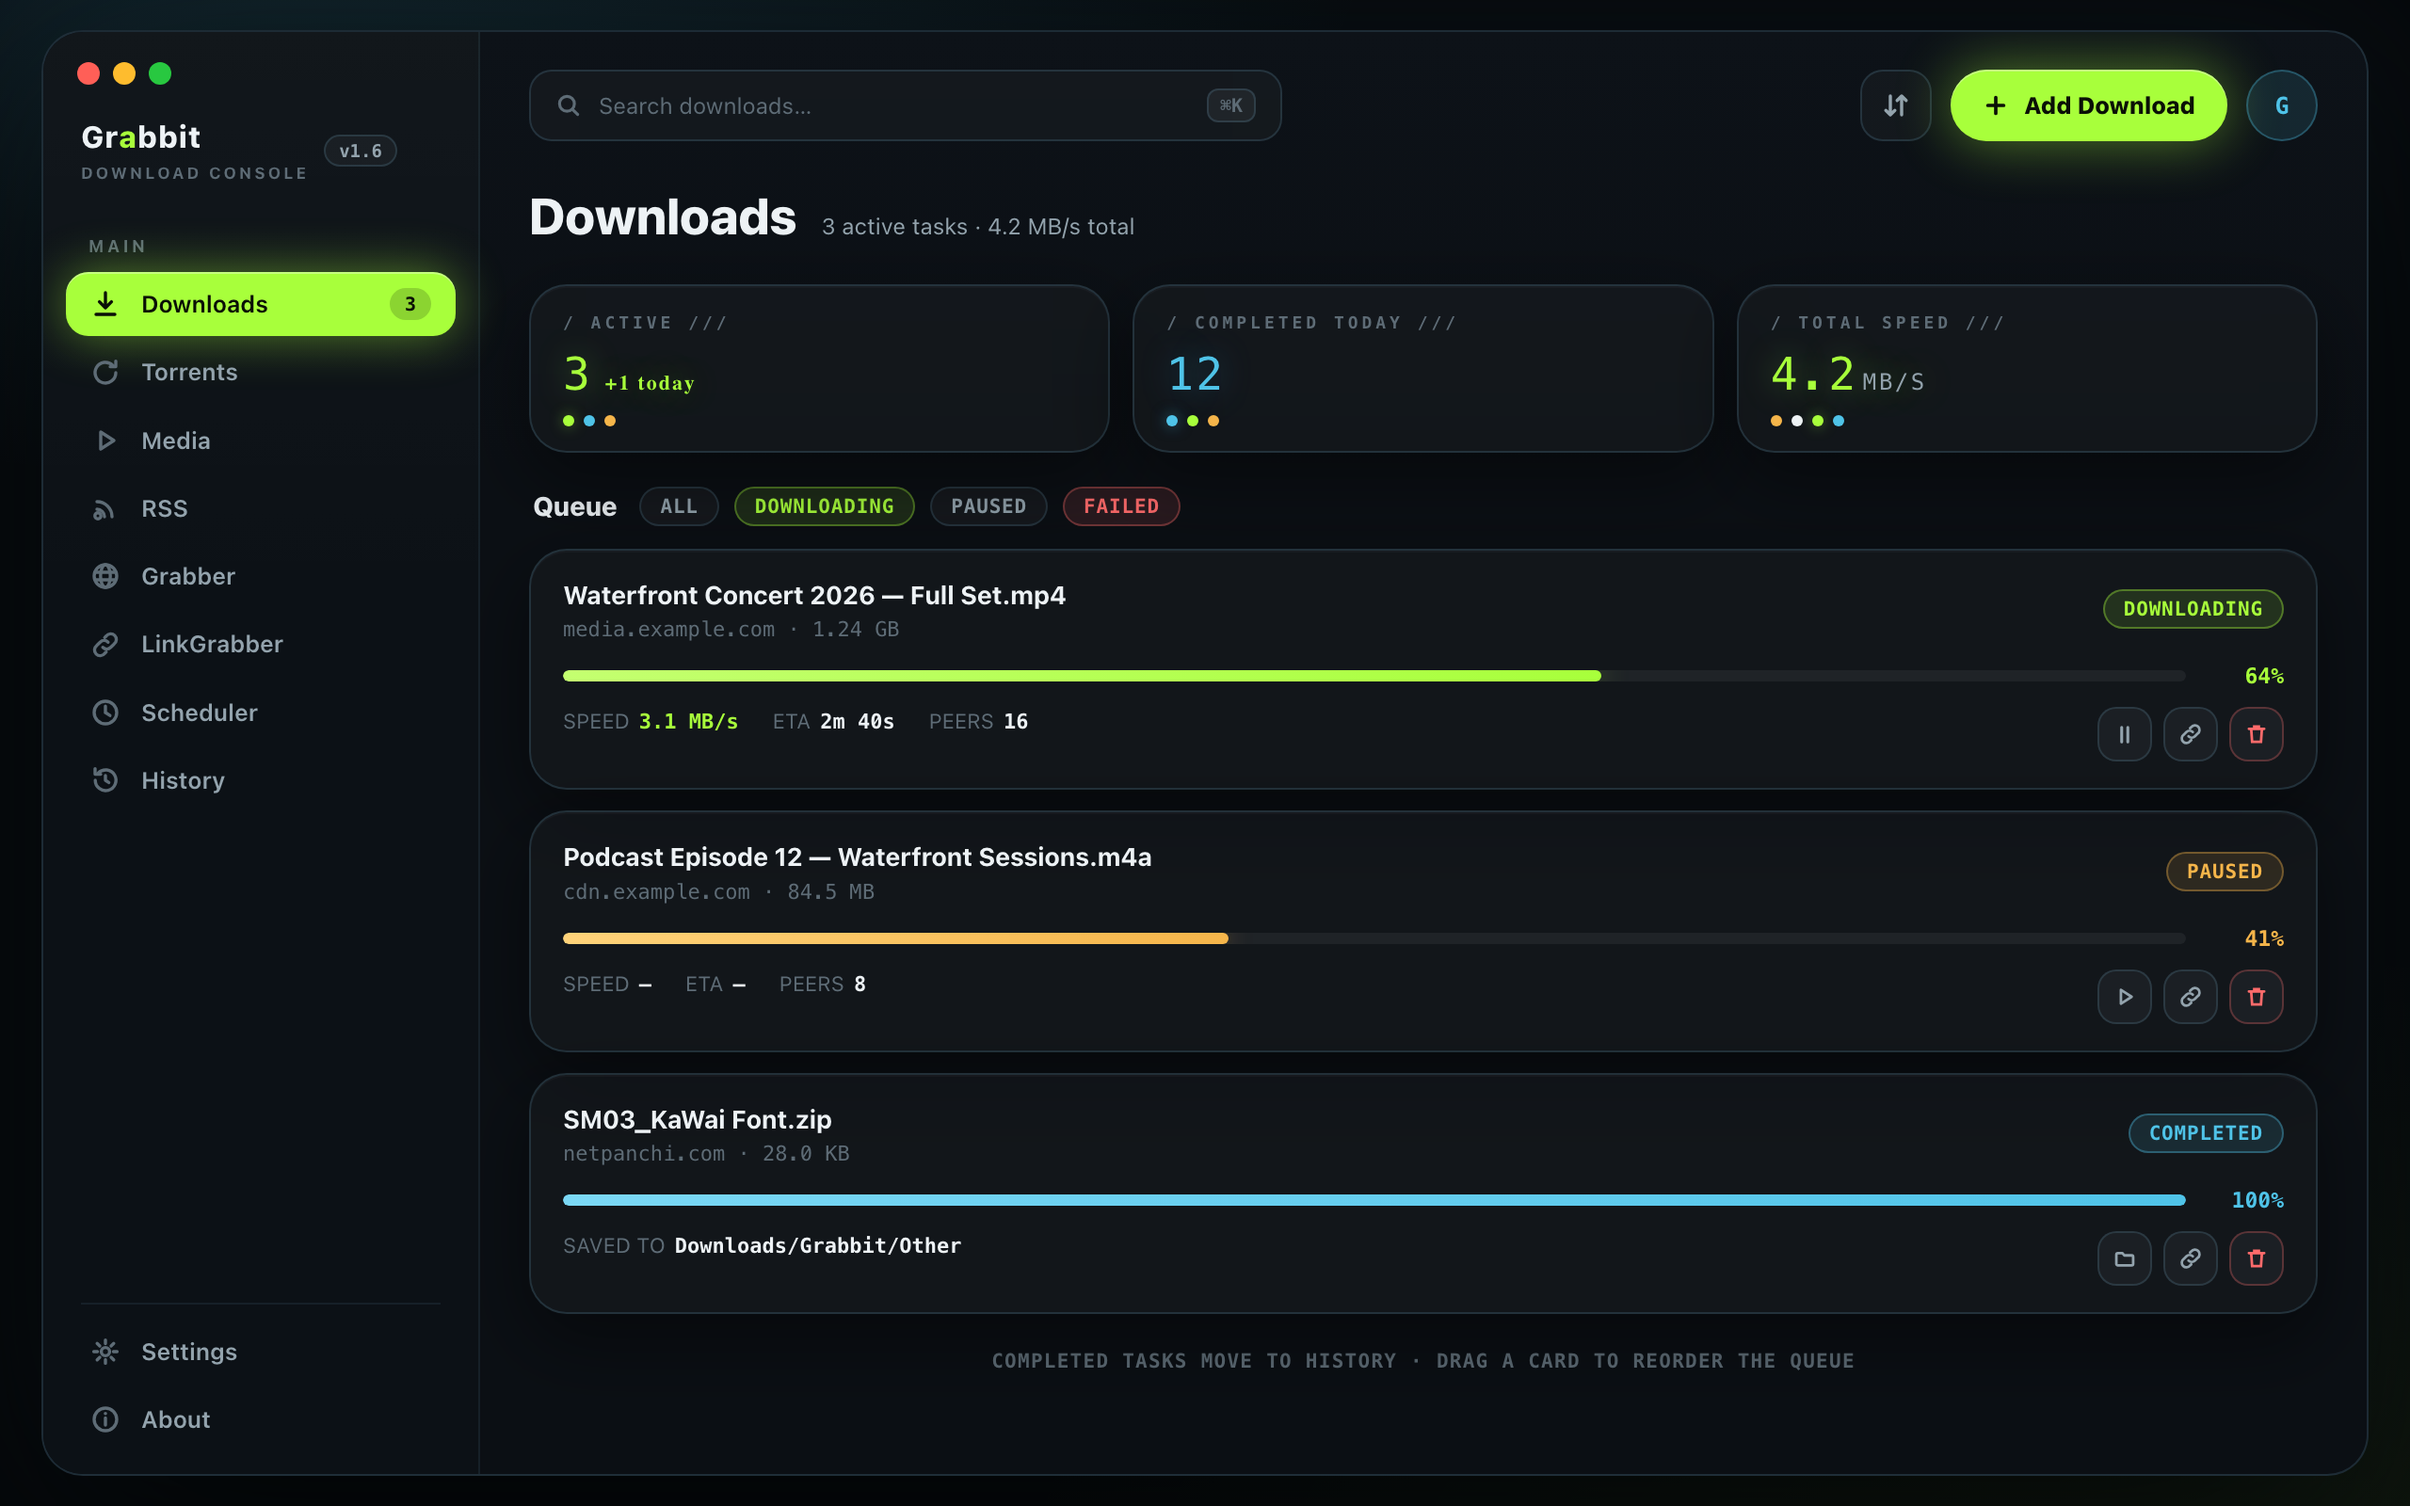
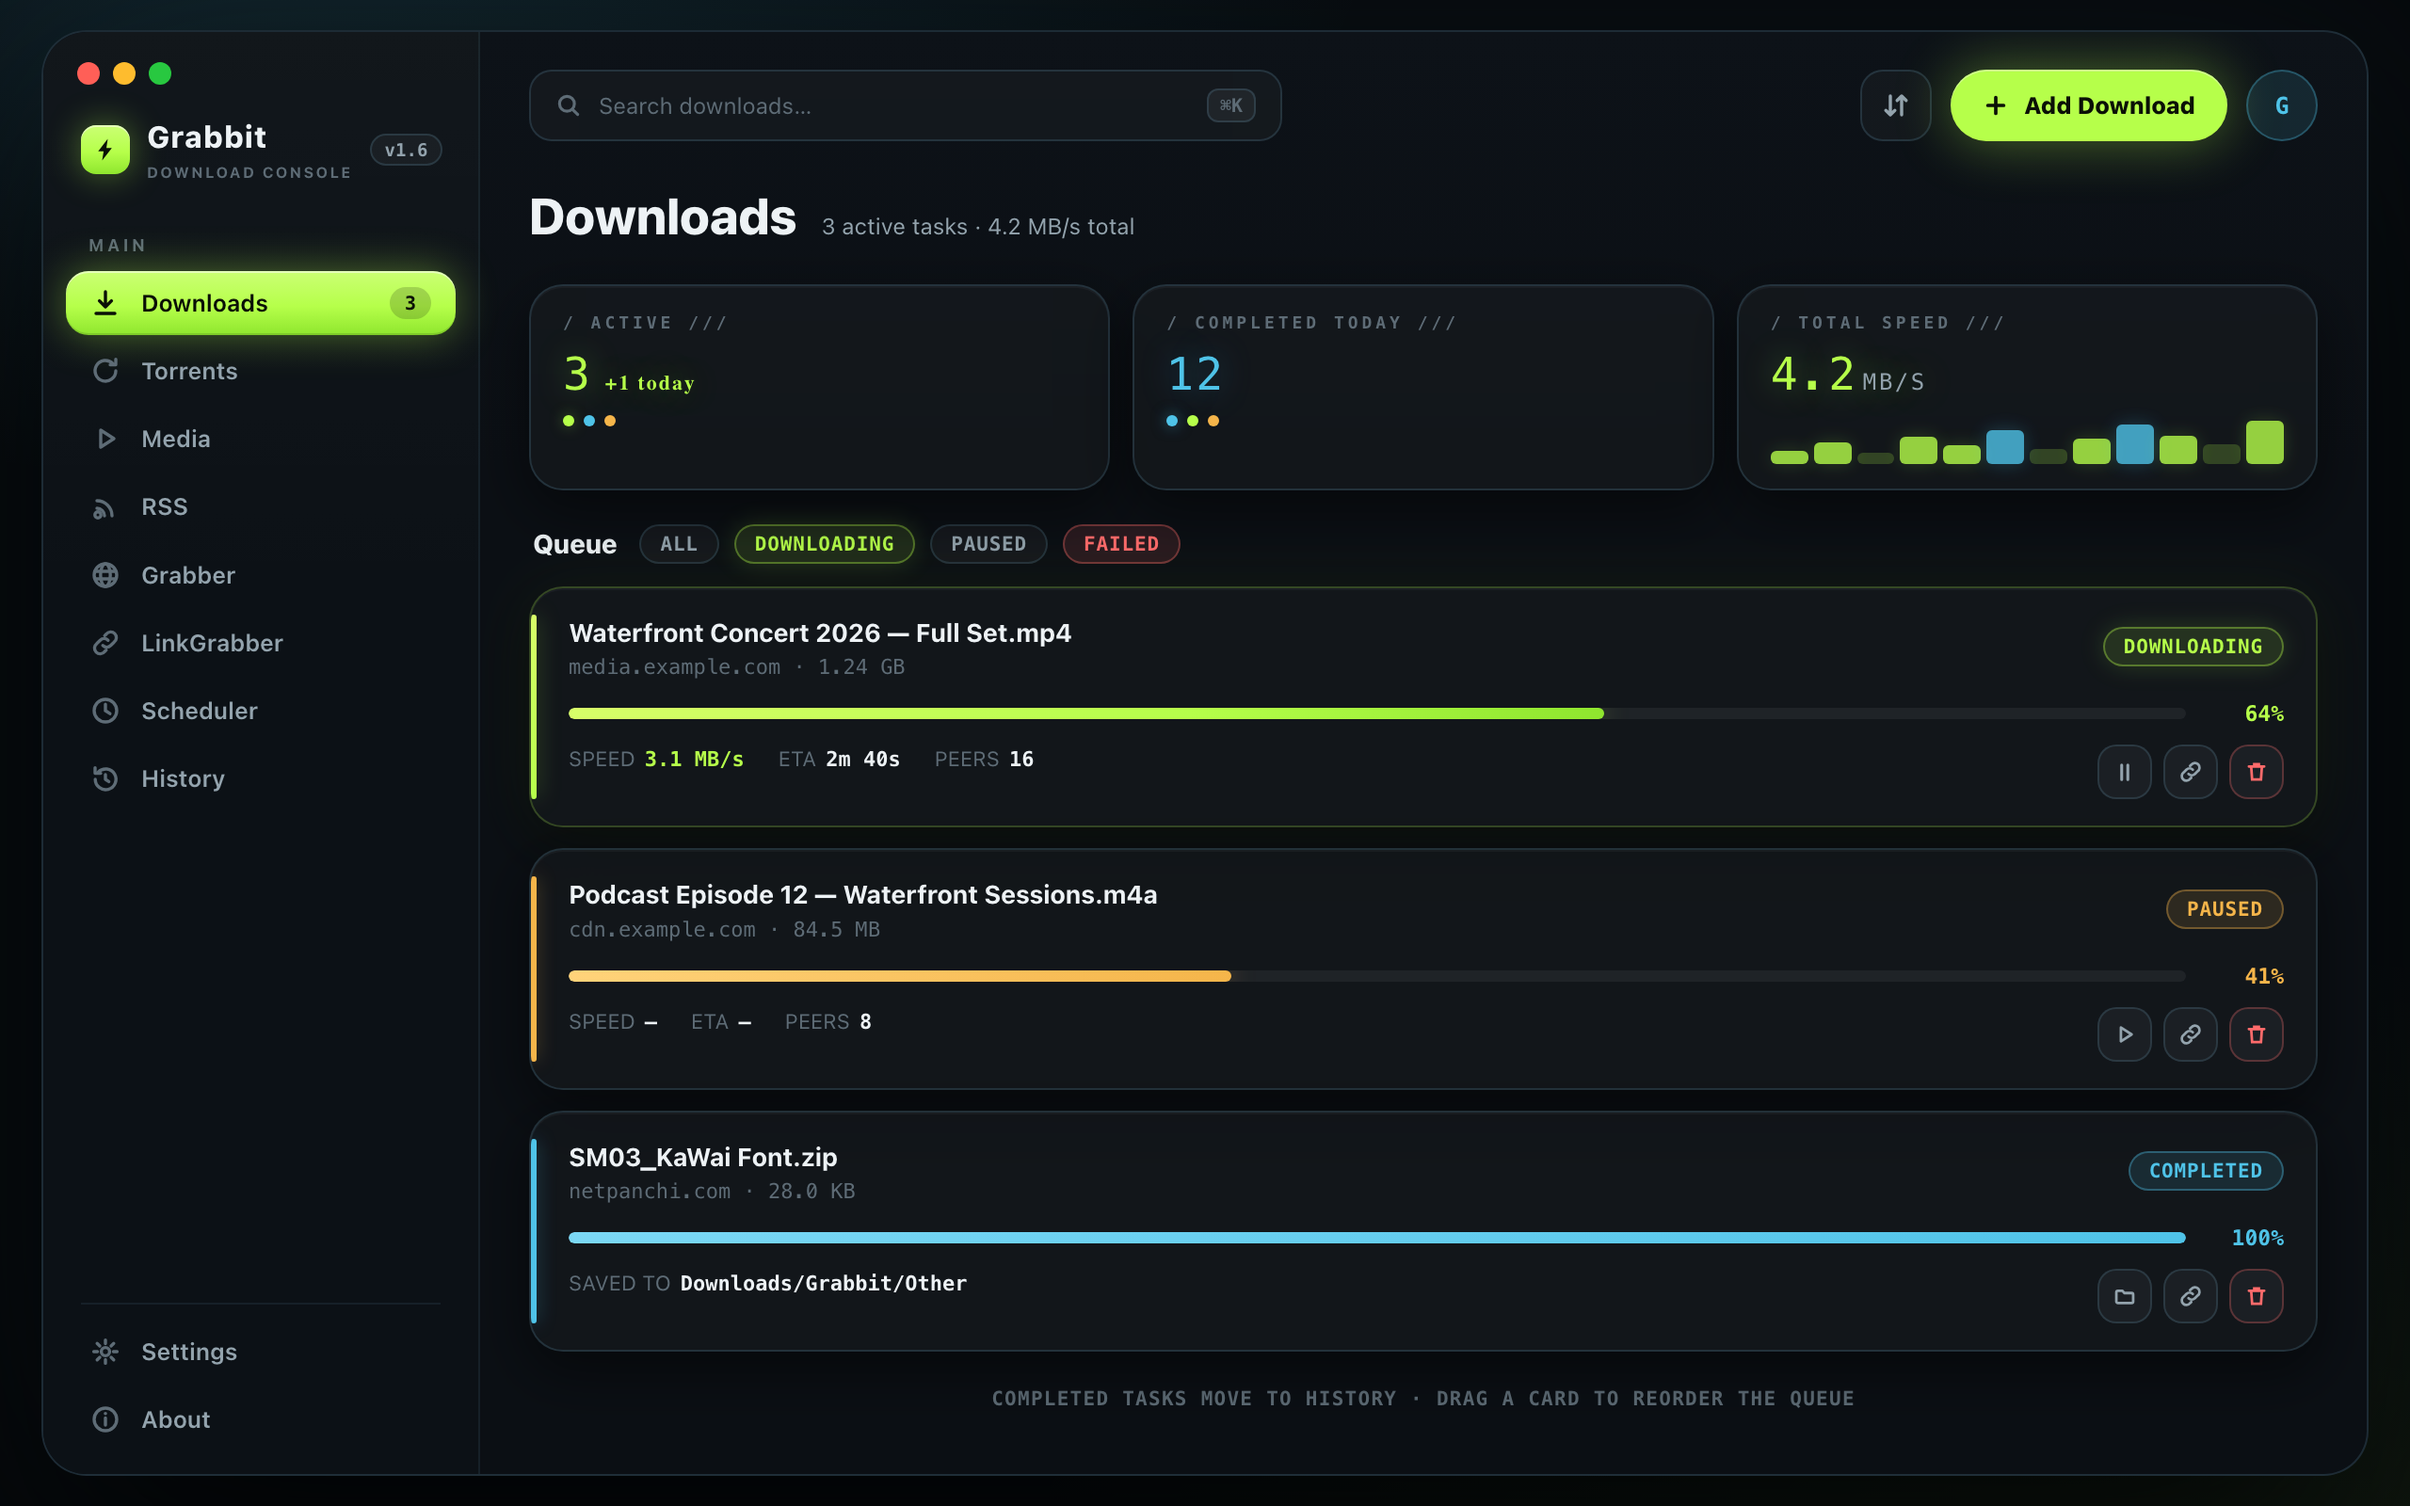
docs: polish the Pulse preview (gradient lime, rails, sparkline)
- Lime refined to #B6FF4A (less acid) with a gradient active pill and a
  bolt badge in the sidebar brand.
- Task cards gained a colored energy rail (lime/gold/cyan) and the active
  card a faint lime border glow; progress fills use a lime gradient.
- Total Speed stat shows a glowing lime/cyan sparkline.
- Shadow tiers deepened, window radius 24, cards 18.

diff --git a/docs/theme-previews/pulse.html b/docs/theme-previews/pulse.html
@@ -19,15 +19,16 @@
     --text: #EDF2F5;
     --text-2: #93A3AD;
     --text-3: #5E6C76;
-    --lime: #A8FF3B;
+    --lime: #B6FF4A;
+    --lime-deep: #8FE62E;
     --lime-ink: #0A1006;
-    --lime-glow: rgba(168, 255, 59, .45);
+    --lime-glow: rgba(182, 255, 74, .38);
     --cyan: #4FC3E8;
     --gold: #F5B54A;
     --red: #FF6B6B;
     --mono: "SF Mono", ui-monospace, Menlo, monospace;
-    --shadow-card: 0 1px 0 rgba(255,255,255,.03) inset, 0 14px 40px rgba(0,0,0,.45);
-    --shadow-window: 0 50px 130px rgba(0,0,0,.75), 0 0 90px rgba(79,195,232,.07);
+    --shadow-card: 0 1px 0 rgba(255,255,255,.04) inset, 0 10px 30px rgba(0,0,0,.5);
+    --shadow-window: 0 60px 140px rgba(0,0,0,.8), 0 0 120px rgba(79,195,232,.07);
   }
 
   * { box-sizing: border-box; margin: 0; padding: 0; }
@@ -48,7 +49,7 @@
     width: 1236px; height: 768px;
     background: linear-gradient(180deg, #0D1218 0%, var(--canvas) 30%);
     border: 1px solid var(--line);
-    border-radius: 22px;
+    border-radius: 24px;
     box-shadow: var(--shadow-window);
     overflow: hidden;
     display: flex;
@@ -66,17 +67,23 @@
   .dot { width: 12px; height: 12px; border-radius: 50%; }
   .dot.r { background: #FF5F57; } .dot.y { background: #FEBC2E; } .dot.g { background: #28C840; }
 
-  .brand { padding: 0 8px 16px; display: flex; align-items: center; gap: 8px; }
+  .brand { padding: 0 8px 16px; display: flex; align-items: center; gap: 9px; }
+  .brand .bolt {
+    width: 26px; height: 26px; border-radius: 8px; flex: none;
+    background: linear-gradient(180deg, #CBFF74, var(--lime) 55%, var(--lime-deep));
+    display: flex; align-items: center; justify-content: center;
+    box-shadow: 0 0 18px var(--lime-glow), 0 1px 0 rgba(255,255,255,.5) inset;
+  }
   .brand h1 { font-size: 16px; font-weight: 800; letter-spacing: .04em; }
-  .brand h1 i { font-style: normal; color: var(--lime); }
   .brand .ver {
     font: 700 9.5px var(--mono); color: var(--text-2);
     background: rgba(255, 255, 255, .04); border: 1px solid var(--line);
     padding: 2px 7px; border-radius: 999px;
   }
   .brand small {
-    display: block; font-size: 8.5px; font-weight: 700; letter-spacing: .16em;
+    display: block; font-size: 8px; font-weight: 700; letter-spacing: .12em;
     color: var(--text-3); text-transform: uppercase; margin-top: 2px;
+    white-space: nowrap;
   }
 
   .nav-label {
@@ -96,8 +103,9 @@
     color: var(--text-2); padding: 1.5px 7px; border-radius: 999px;
   }
   .nav a.active {
-    background: var(--lime); color: var(--lime-ink);
-    box-shadow: 0 0 26px var(--lime-glow), 0 1px 0 rgba(255,255,255,.35) inset;
+    background: linear-gradient(180deg, #CBFF74, var(--lime) 55%, var(--lime-deep));
+    color: var(--lime-ink);
+    box-shadow: 0 0 22px var(--lime-glow), 0 1px 0 rgba(255,255,255,.5) inset, 0 -1px 0 rgba(0,0,0,.12) inset;
   }
   .nav a.active svg { color: var(--lime-ink); }
   .nav a.active .count {
@@ -157,9 +165,13 @@
   .stats { display: grid; grid-template-columns: repeat(3, 1fr); gap: 12px; margin-bottom: 18px; }
   .stat {
     background: var(--card); backdrop-filter: blur(12px);
-    border: 1px solid var(--line); border-radius: 20px;
+    border: 1px solid var(--line); border-radius: 18px;
     box-shadow: var(--shadow-card); padding: 14px 17px 13px;
   }
+  .spark { display: flex; align-items: flex-end; gap: 3px; height: 24px; margin-top: 10px; }
+  .spark i { flex: 1; border-radius: 3px; background: var(--lime); opacity: .8; box-shadow: 0 0 10px rgba(182, 255, 74, .22); }
+  .spark i.dim { opacity: .2; box-shadow: none; }
+  .spark i.cy { background: var(--cyan); box-shadow: 0 0 10px rgba(79, 195, 232, .3); }
   .stat .label { margin-bottom: 8px; }
   .stat .value {
     font: 500 24px var(--mono); letter-spacing: .04em;
@@ -179,16 +191,25 @@
     padding: 3.5px 10px; border-radius: 999px;
     background: rgba(255, 255, 255, .04); border: 1px solid var(--line); color: var(--text-2);
   }
-  .chip.lime { background: rgba(168, 255, 59, .12); border-color: rgba(168, 255, 59, .35); color: var(--lime); }
+  .chip.lime { background: rgba(182, 255, 74, .12); border-color: rgba(182, 255, 74, .35); color: var(--lime); box-shadow: 0 0 14px rgba(182, 255, 74, .16); }
   .chip.gold { background: rgba(245, 181, 74, .12); border-color: rgba(245, 181, 74, .35); color: var(--gold); }
   .chip.cyan { background: rgba(79, 195, 232, .12); border-color: rgba(79, 195, 232, .35); color: var(--cyan); }
   .chip.red { background: rgba(255, 107, 107, .12); border-color: rgba(255, 107, 107, .35); color: var(--red); }
 
   .task {
+    position: relative; overflow: hidden;
     background: var(--card); backdrop-filter: blur(12px);
-    border: 1px solid var(--line); border-radius: 20px;
-    box-shadow: var(--shadow-card); padding: 14px 17px; margin-bottom: 11px;
+    border: 1px solid var(--line); border-radius: 18px;
+    box-shadow: var(--shadow-card); padding: 14px 17px 14px 20px; margin-bottom: 11px;
   }
+  .task::before {
+    content: ""; position: absolute; left: 0; top: 14px; bottom: 14px; width: 3px;
+    border-radius: 999px; background: var(--line);
+  }
+  .task.lime::before { background: linear-gradient(180deg, #D8FF69, var(--lime)); box-shadow: 0 0 12px var(--lime-glow); }
+  .task.gold::before { background: var(--gold); box-shadow: 0 0 10px rgba(245, 181, 74, .4); }
+  .task.cyan::before { background: var(--cyan); box-shadow: 0 0 10px rgba(79, 195, 232, .4); }
+  .task.lime { border-color: rgba(182, 255, 74, .22); box-shadow: 0 0 34px rgba(182, 255, 74, .06), var(--shadow-card); }
   .task .row1 { display: flex; align-items: center; gap: 10px; }
   .task .file { font-size: 13.5px; font-weight: 700; letter-spacing: -.01em; }
   .task .host { font: 500 11px var(--mono); color: var(--text-3); margin-top: 2px; }
@@ -197,8 +218,8 @@
   .bar { flex: 1; height: 6px; border-radius: 999px; background: rgba(255, 255, 255, .06); overflow: hidden; }
   .bar i {
     display: block; height: 100%; border-radius: 999px;
-    background: linear-gradient(90deg, #C4FF70, var(--lime));
-    box-shadow: 0 0 16px var(--lime-glow);
+    background: linear-gradient(90deg, #D8FF69, var(--lime) 60%, var(--lime-deep));
+    box-shadow: 0 0 14px var(--lime-glow);
   }
   .bar.gold i { background: linear-gradient(90deg, #FFD37A, var(--gold)); box-shadow: 0 0 14px rgba(245, 181, 74, .4); }
   .bar.cyan i { background: linear-gradient(90deg, #7BD8F5, var(--cyan)); box-shadow: 0 0 14px rgba(79, 195, 232, .35); }
@@ -226,8 +247,11 @@
       <div class="traffic"><span class="dot r"></span><span class="dot y"></span><span class="dot g"></span></div>
 
       <div class="brand">
+        <div class="bolt">
+          <svg width="14" height="14" viewBox="0 0 16 16"><path d="M9.4 1.4L3.6 9h3.3l-.9 5.6L11.9 7H8.6z" fill="#0A1006"/></svg>
+        </div>
         <div>
-          <h1>Gr<i>a</i>bbit</h1>
+          <h1>Grabbit</h1>
           <small>Download Console</small>
         </div>
         <span class="ver">v1.6</span>
@@ -321,7 +345,12 @@
         <div class="stat">
           <div class="label micro">/ Total speed ///</div>
           <div class="value lime">4.2<span class="unit">MB/S</span></div>
-          <div class="dots"><i style="background:var(--gold)"></i><i style="background:var(--text)"></i><i style="background:var(--lime);box-shadow:0 0 8px var(--lime-glow)"></i><i style="background:var(--cyan)"></i></div>
+          <div class="spark">
+            <i style="height:30%"></i><i style="height:48%"></i><i class="dim" style="height:26%"></i>
+            <i style="height:62%"></i><i style="height:42%"></i><i class="cy" style="height:76%"></i>
+            <i class="dim" style="height:34%"></i><i style="height:56%"></i><i class="cy" style="height:88%"></i>
+            <i style="height:64%"></i><i class="dim" style="height:44%"></i><i style="height:96%"></i>
+          </div>
         </div>
       </div>
 
@@ -333,7 +362,7 @@
         <span class="chip red">FAILED</span>
       </div>
 
-      <div class="task">
+      <div class="task lime">
         <div class="row1">
           <div>
             <div class="file">Waterfront Concert 2026 — Full Set.mp4</div>
@@ -357,7 +386,7 @@
         </div>
       </div>
 
-      <div class="task">
+      <div class="task gold">
         <div class="row1">
           <div>
             <div class="file">Podcast Episode 12 — Waterfront Sessions.m4a</div>
@@ -381,7 +410,7 @@
         </div>
       </div>
 
-      <div class="task">
+      <div class="task cyan">
         <div class="row1">
           <div>
             <div class="file">SM03_KaWai Font.zip</div>
